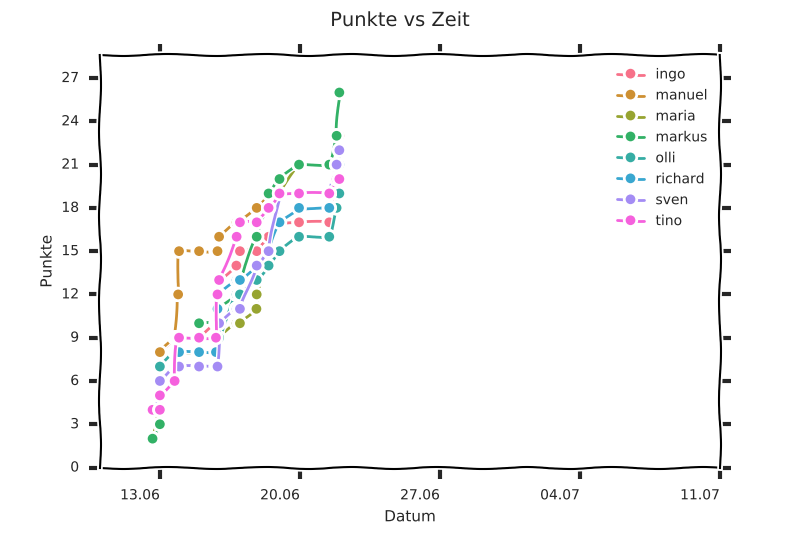
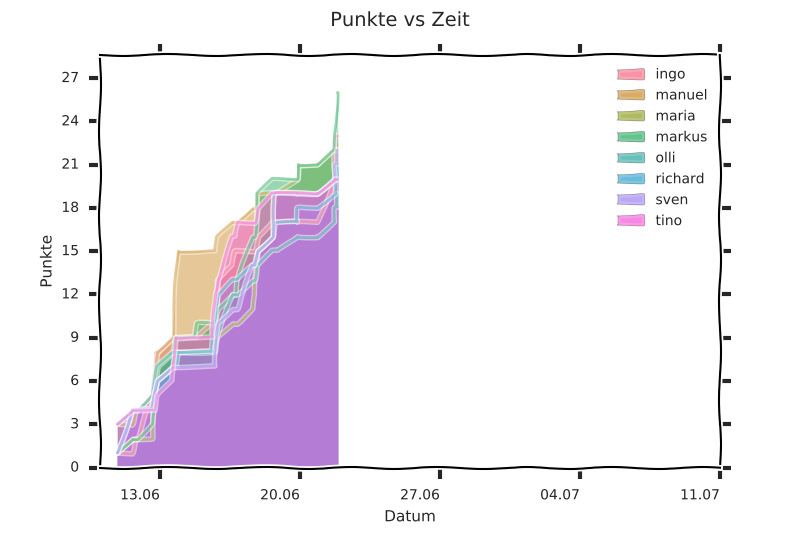
huge update

Changed region(s): [[0.125, 0.1545, 0.4375, 0.8655], [0.75, 0.1236, 0.8125, 0.4327]]

diff --git a/tippspiel.py b/tippspiel.py
@@ -12,6 +12,7 @@ import datetime
 from itertools import repeat
 from operator import sub
 from functools import partial
+from toolz.dicttoolz import get_in
 
 
 DATA_FILE = "saure_gurke.pkl"
@@ -71,8 +72,7 @@ def basename(fname):
 
 def get_all_tipps(round_number):
     files = glob.glob("ro{}/tipps/*.txt".format(round_number))
-    for fname in files:
-        yield basename(fname), load_tipps(fname)
+    return {basename(fname): load_tipps(fname) for fname in files}
 
 
 def score(tipp, result):
@@ -93,15 +93,19 @@ def total_points(tipps, results):
     return sum(score(tipps[match], result["result"]) for match, result in results.items())
 
 
+def get_fname(rn):
+    return "ro{}/results.txt".format(rn)
+
+
 def get_standing(round_number):
-    results = load_result("ro{}/results.txt".format(round_number))
+    results = load_result(get_fname(rn))
     return {player: ROUND_MULTIPLICATOR[round_number] * total_points(tipps, results)
-            for player, tipps in get_all_tipps(round_number)}
+            for player, tipps in get_all_tipps(round_number).items()}
 
 
 def get_all_rounds():
     for rn in ROUND_MULTIPLICATOR.keys():
-        if os.path.isfile("ro{}/results.txt".format(rn)):
+        if os.path.isfile(get_fname(rn)):
             yield get_standing(rn)
 
 
@@ -112,13 +116,39 @@ def add_rounds(standings):
             overall[player] += points
     return overall
 
+def time(tsring):
+    return datetime.datetime.strptime(tsring + ' 2016', '%d %B %H.%M %Y') 
+
+def round_to_df(rn):
+        results = load_result(get_fname(rn))
+        all_tipps = get_all_tipps(rn)
+
+        matches = list(results.keys())
+        times = [time(a['time']) for a in results.values()]
+        df = pd.DataFrame(columns=all_tipps.keys(), index=[matches, times])
+
+        for game, game_data in results.items():
+            if game_data['result']:
+                game_tipps = {player: ROUND_MULTIPLICATOR[rn]*score(players_tipp[game], game_data['result'])
+                              for player, players_tipp in all_tipps.items()}
+
+                df.loc[game, time(game_data['time'])] = game_tipps
+        
+        return df.swaplevel().sort_index().sort_index(axis=1)
+
+def get_all_rounds():
+    return pd.concat([round_to_df(rn) for rn in ROUND_MULTIPLICATOR.keys() if os.path.isfile(get_fname(rn))])
+
 
 def update_data():
 
+
+    df = get_all_rounds()
+
     sns.set_style('white')
     plt.xkcd()
-    series = pd.Series(add_rounds(get_all_rounds()))
-    series.name = datetime.datetime.now()
+
+    series = df.sum()
     colors = sns.color_palette("husl", len(series))
     ax = series.plot(kind="bar", rot=0, sort_columns=True, color=colors)
     ax.yaxis.set_major_locator(ticker.MaxNLocator(integer=True))
@@ -129,13 +159,10 @@ def update_data():
     fig.subplots_adjust(bottom=0.15)
     fig.savefig("standings.png")
 
-    if os.path.isfile(DATA_FILE):
-        df = pd.read_pickle(DATA_FILE)
-    else:
-        df = pd.DataFrame()
-    df = df.append(series)
 
-    ax = df.plot(sort_columns=True, rot=0, color=colors, marker='o')
+    df = df.dropna()
+    index = df.index.get_level_values(0)
+    ax = df.cumsum().plot(x=index, kind='area', stacked=False, sort_columns=True, rot=0, color=colors)
     date1 = datetime.datetime(2016, 6, 10)
     date2 = datetime.datetime(2016, 7, 11)
     ax.xaxis.set_major_formatter(dates.DateFormatter('%d.%m'))
@@ -150,8 +177,10 @@ def update_data():
     fig.subplots_adjust(bottom=0.15)
     fig.savefig("standings_vs_time.png")
 
-    df.to_pickle(DATA_FILE)
+    return df
 
 
 if __name__ == "__main__":
-    update_data()
+    df =update_data()
+
+
